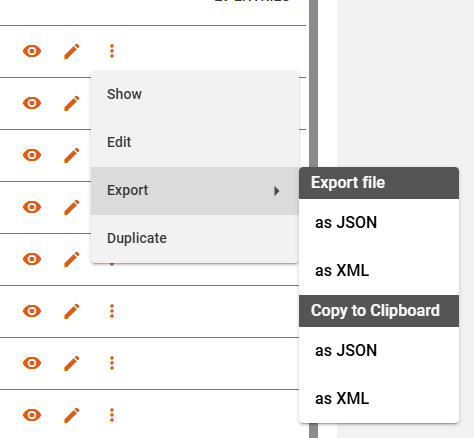
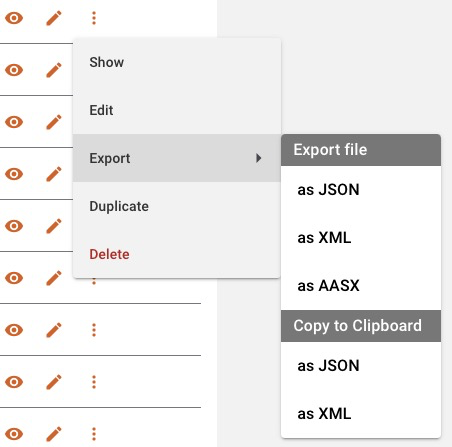
feat(catalog): add description of delete twin dialog

diff --git a/docs/studio-catalog.md b/docs/studio-catalog.md
@@ -2,10 +2,10 @@
 
 ## General Information
 
-The catalog is twinstudio's view on all of twinsphere's content like twins, submodel templates, concept description
+The catalog is a view on all the content of twinsphere like twins, submodel templates, concept description
 and more.
 
-Each object type has its own catalog. Its records are displayed as a list. On most items you may involke actions, like
+Each object type has its own catalog. Its records are displayed as a list. On most items you may invoke actions, like
 viewing or editing a twin or displaying the detailed definitions of a concept description.
 
 If there are more entries than displayed (indicated by a *"+"* sign in the list header) a *load more* button is visible
@@ -42,7 +42,7 @@ On the right a **filter** for the shells can be set:
 - A partially qualified value can be specified for all attributes listed as
   [regex supported filter properties](cloud-shell-filter-queries.md/#regex-support).
 
-The **submodel column** shows the count of submodels the respective twin has. A click opens a dialog lsting them
+The **submodel column** shows the count of submodels the respective twin has. A click opens a dialog listing them
 with some basic information.
 
 The action represented by an **eye symbol** (or the "Show" button in the more menu) opens the twin in our
@@ -57,10 +57,22 @@ The more menu offers two further features:
 
 - The **export** of twins as JSON or XML to a file or directly to your system's clipboard.
 - The **duplication** of *instance* twins (not types).
+- The **deletion** of twins.
+
+#### Delete Twin Dialog
+
+After clicking on the **deletion** entry, a dialog appears. There you can see which twin will get deleted.
+You also have the possibility to deselect certain submodels of the twin, if you do not want them to be deleted.
+Submodels which are referenced by other twins, cannot be selected for deletion. If you want to delete a type twin,
+you will get a warning about its implications.
+
+![Twin Catalog](img/twinstudio_catalog_twins_delete_twin_dialog.png){: width='350'}
+
+#### Duplication of Instance Twins
 
 When duplicating an existing twin all of its data (shell and referenced submodels) are duplicated. New IDs are created
 and assigned to the copies. We highly recommend using the studio's
-[ID Generator feature](studio-general-features.md/#id-generator) here. Otherwise you'll be asked to enter an AAS-ID
+[ID Generator feature](studio-general-features.md/#id-generator) here. Otherwise, you'll be asked to enter an AAS-ID
 and GlobalAssetID manually and we will use the aas-id value appended by "/sm/{ULID}" automatically for all new submodel
 IDs.
 
@@ -86,7 +98,7 @@ of specification are included in each record. Currently only the type *IEC61360*
 Every other specification will be labeled as "unknown". [Please give us a hint](contact.md#support-channels) if you
 experience this value so we can improve our recognition here.
 
-If it is a *IEC61360* data specification you can inspect the details of it by clicking on the *eye* button.
+If it is an *IEC61360* data specification you can inspect the details of it by clicking on the *eye* button.
 
 The **export** of a concept description is available as action in the more menu of each record.
 
@@ -109,7 +121,7 @@ The selected language is highlighted with a gray background.
 ![Submodel Template Catalog](img/twinstudio_catalog_submodeltemplates.png){: width='800'}
 
 This catalog displays all *submodels* in your twinsphere repository that are of kind **template**.
-These are the ones you can choose from when adding new sobmodels to your twin in
+These are the ones you can choose from when adding new submodel to your twin in
 [Twin Builder](studio-twin-builder.md/#addremove-submodels).
 
 The **export** of a submodel template is available as action in the more menu of each record.
@@ -127,7 +139,7 @@ You may continue editing the twin draft by clicking on the **pen symbol** or cho
 This is as well where you may "**Delete**" the draft or "**Export**" it.
 
 For valid drafts only the more menu offers a "**Publish**" action. This will publish the twin to the connect
-twinsphere tenant's repository and delete the draft afterwards.
+twinsphere tenant's repository and delete the draft afterward.
 
 !!! note
     With introduction of the upcoming twinstudio modules **Template Designer** and **Blueprint Editor** further draft
